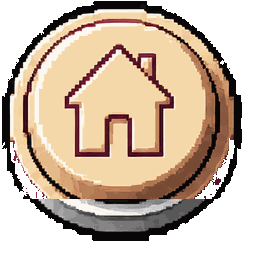
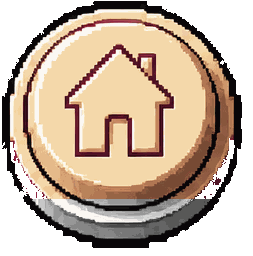
fix(ios): v0.8.97 and then the seam
0.8.96's graft was right about the material and wrong twice about the
join: centroid alignment resampled the donors a few rows deep (the glyphs
make the centroids different anchors on caps drawn in registration), and
a one-row switch from home's lit face to the donors' skirt printed a hard
value line across the cap -- loudest on dark liveries through the
litFloor compression. Donors sample at identical coordinates now and the
band blends in over ten rows; home's band rows match back's medians at
every depth.

Changed region(s): [[0.083, 0.75, 0.8577, 0.9688]]

diff --git a/shared/data/firmware.ts b/shared/data/firmware.ts
@@ -61,11 +61,23 @@ import type { FirmwareRelease } from '../types';
  * each batch a name, which is the file's entire job.
  */
 const CURRENT: FirmwareRelease = {
+  version: "0.8.97",
+  date: "2026-08-10",
+  headline: "AND THEN THE SEAM",
+  // The terse register, kept. 0.8.96's graft printed its own join as a line
+  // across the cap; the band now blends in over ten rows, aligned row-for-row.
+  notes: [
+    "The skirt graft lost its seam: HOME's band fades into its siblings' shading instead of switching in one line, and the rows align exactly.",
+    "446 entries: 177 grapes, 124 regions, 33 styles, 106 flavours, 26 countries.",
+  ],
+};
+
+const PREVIOUS_0896: FirmwareRelease = {
   version: "0.8.96",
   date: "2026-08-10",
   headline: "ONE MOULDED SKIRT",
-  // The terse register, kept. The HOME saga's last chapter was never colour:
-  // the drawing's bottom wall was 21 pixels where its siblings carry 120.
+  // The HOME saga's last chapter was never colour: the drawing's bottom wall
+  // was 21 pixels where its siblings carry 120.
   notes: [
     "HOME's bottom bezel was thin in the drawing itself; it is grafted from its siblings now -- one moulded skirt on all four caps, on every shell.",
     "446 entries: 177 grapes, 124 regions, 33 styles, 106 flavours, 26 countries.",
@@ -145,6 +157,7 @@ const PREVIOUS_0892: FirmwareRelease = {
 };
 
 const PREVIOUS: FirmwareRelease[] = [
+  PREVIOUS_0896,
   PREVIOUS_0895,
   PREVIOUS_0894,
   PREVIOUS_0893,

diff --git a/scripts/import-footer-art.py b/scripts/import-footer-art.py
@@ -230,19 +230,13 @@ def strip_key_shadow(img):
 LIP_BAND_TOP = 0.78
 
 
-def _opaque_centroid(img):
-    """Centre of mass of the opaque pixels — the same anchor the runtime's
-    `fitCap` computes, so the graft and the re-ink agree on where the cap is."""
-    px = img.load()
-    w, h = img.size
-    sx = sy = n = 0
-    for y in range(h):
-        for x in range(w):
-            if px[x, y][3] > 0:
-                sx += x
-                sy += y
-                n += 1
-    return sx / max(n, 1), sy / max(n, 1)
+# The seam: how many rows at the band's top blend home's own paint into the
+# donors' rather than switching in one row. Measured need: home's lit face
+# runs ~0.9 in value where the donors' skirt top runs ~0.6, and a one-row
+# switch printed that difference as a hard line straight across the cap —
+# loudest on the dark liveries, whose `litFloor` compression stretches value
+# differences. Ten rows turns the step into a moulding gradient.
+LIP_SEAM_ROWS = 10
 
 
 def graft_home_skirt(img, donors):
@@ -274,39 +268,49 @@ def graft_home_skirt(img, donors):
     The house glyph never reaches the band — it bottoms out at ~0.72h against
     the band's 0.78h — so nothing of home's own drawing is lost but the
     too-thin wall this replaces.
+
+    **No registration shift.** The four caps are drawn on one canvas at one
+    position — silhouettes agree within a pixel — so donors are sampled at
+    the same (x, y). A first cut aligned by opaque centroid instead; the
+    glyphs' differing mass makes the centroids honestly different anchors,
+    and the rounded shift resampled the donors a few rows deep, which pulled
+    their skirt up the cap and printed the seam it was meant to hide.
     """
     px = img.load()
     w, h = img.size
 
-    hx, hy = _opaque_centroid(img)
-    donor_data = []
-    for d in donors:
-        dx, dy = _opaque_centroid(d)
-        donor_data.append((d.load(), d.size, dx - hx, dy - hy))
+    donor_data = [(d.load(), d.size) for d in donors]
 
     y0 = int(h * LIP_BAND_TOP)
     grafted = 0
     for y in range(y0, h):
+        # The seam blend: home's own paint fades into the donors' over the
+        # band's first rows, so the transition is moulding, not a line.
+        t = min((y - y0) / LIP_SEAM_ROWS, 1.0)
         for x in range(w):
             samples = []
             alpha = 0
-            for p, (dw, dh), sx, sy in donor_data:
-                nx, ny = int(round(x + sx)), int(round(y + sy))
-                if 0 <= nx < dw and 0 <= ny < dh:
-                    r, g, b, a = p[nx, ny]
+            for p, (dw, dh) in donor_data:
+                if x < dw and y < dh:
+                    r, g, b, a = p[x, y]
                     if a > 0:
                         samples.append(max(r, g, b))
                         alpha = max(alpha, a)
+            hr, hg, hb, ha = px[x, y]
             if not samples:
-                if px[x, y][3] != 0:
+                if ha != 0 and t >= 1.0:
                     px[x, y] = (0, 0, 0, 0)
                     grafted += 1
                 continue
             samples.sort()
             v = samples[len(samples) // 2]
-            if px[x, y] != (v, v, v, alpha):
+            if ha > 0 and t < 1.0:
+                v = int(round(max(hr, hg, hb) * (1 - t) + v * t))
+                alpha = max(alpha, ha)
+            out = (v, v, v, alpha)
+            if px[x, y] != out:
                 grafted += 1
-            px[x, y] = (v, v, v, alpha)
+            px[x, y] = out
     return img, grafted
 
 
